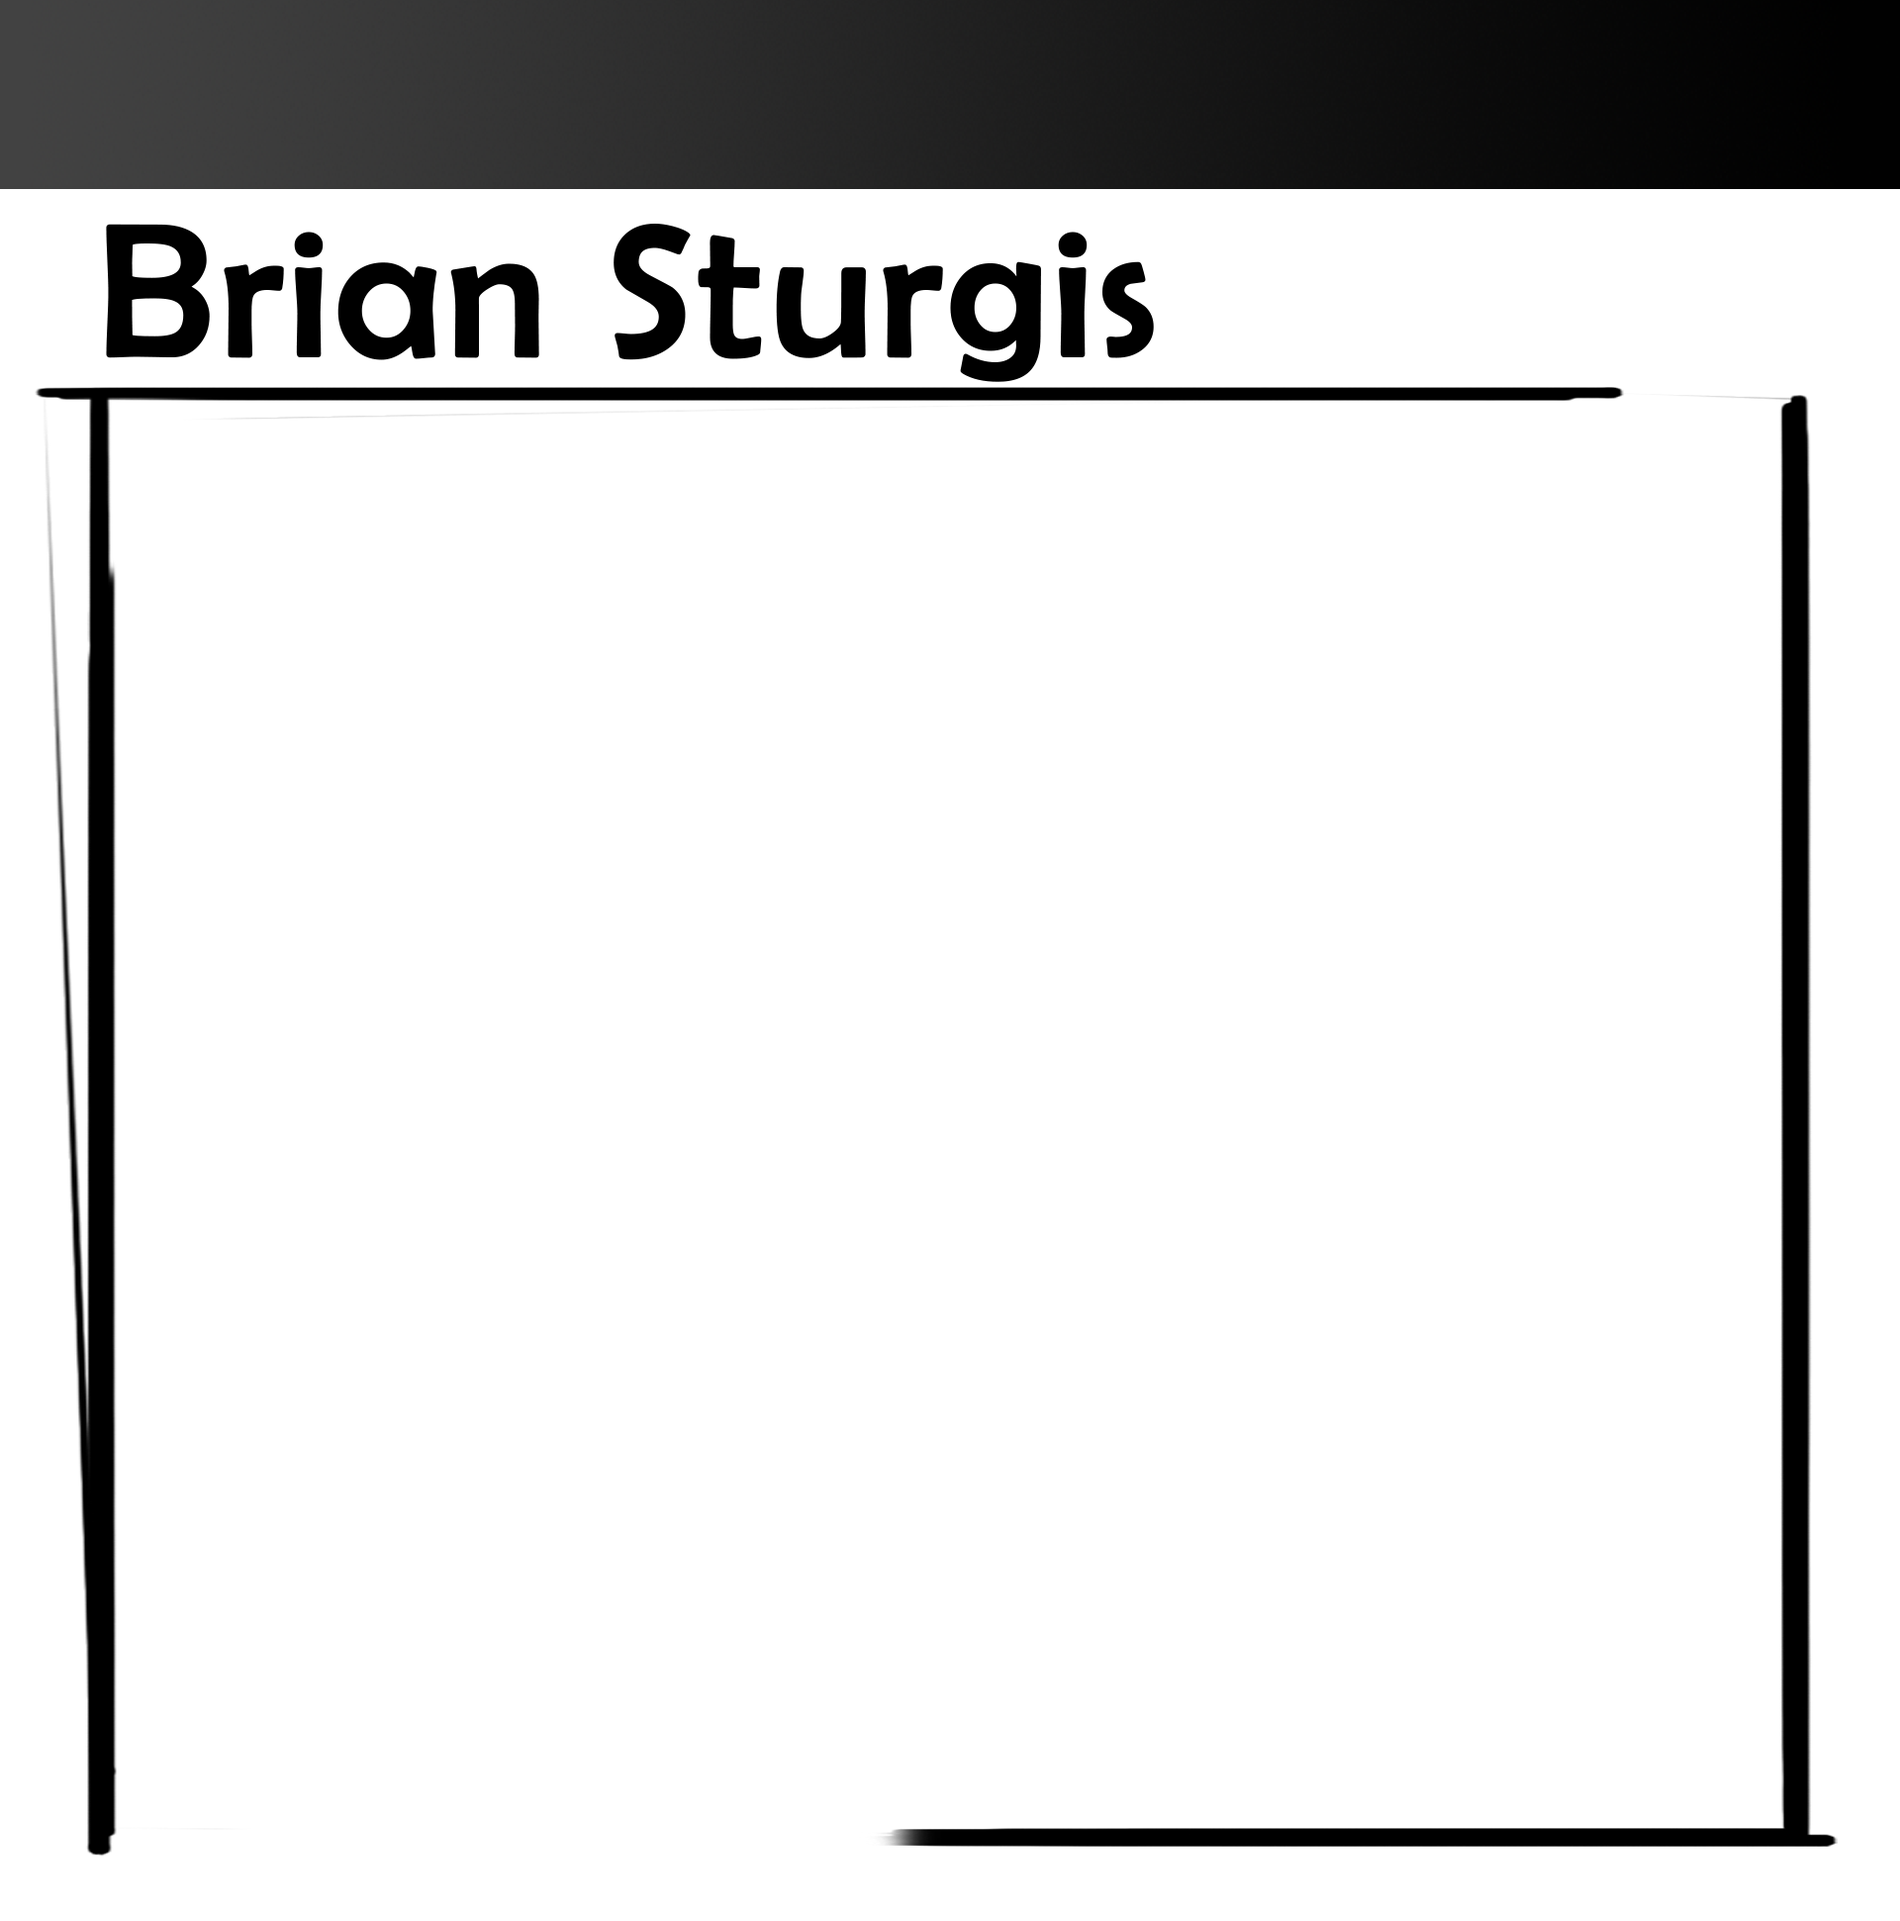
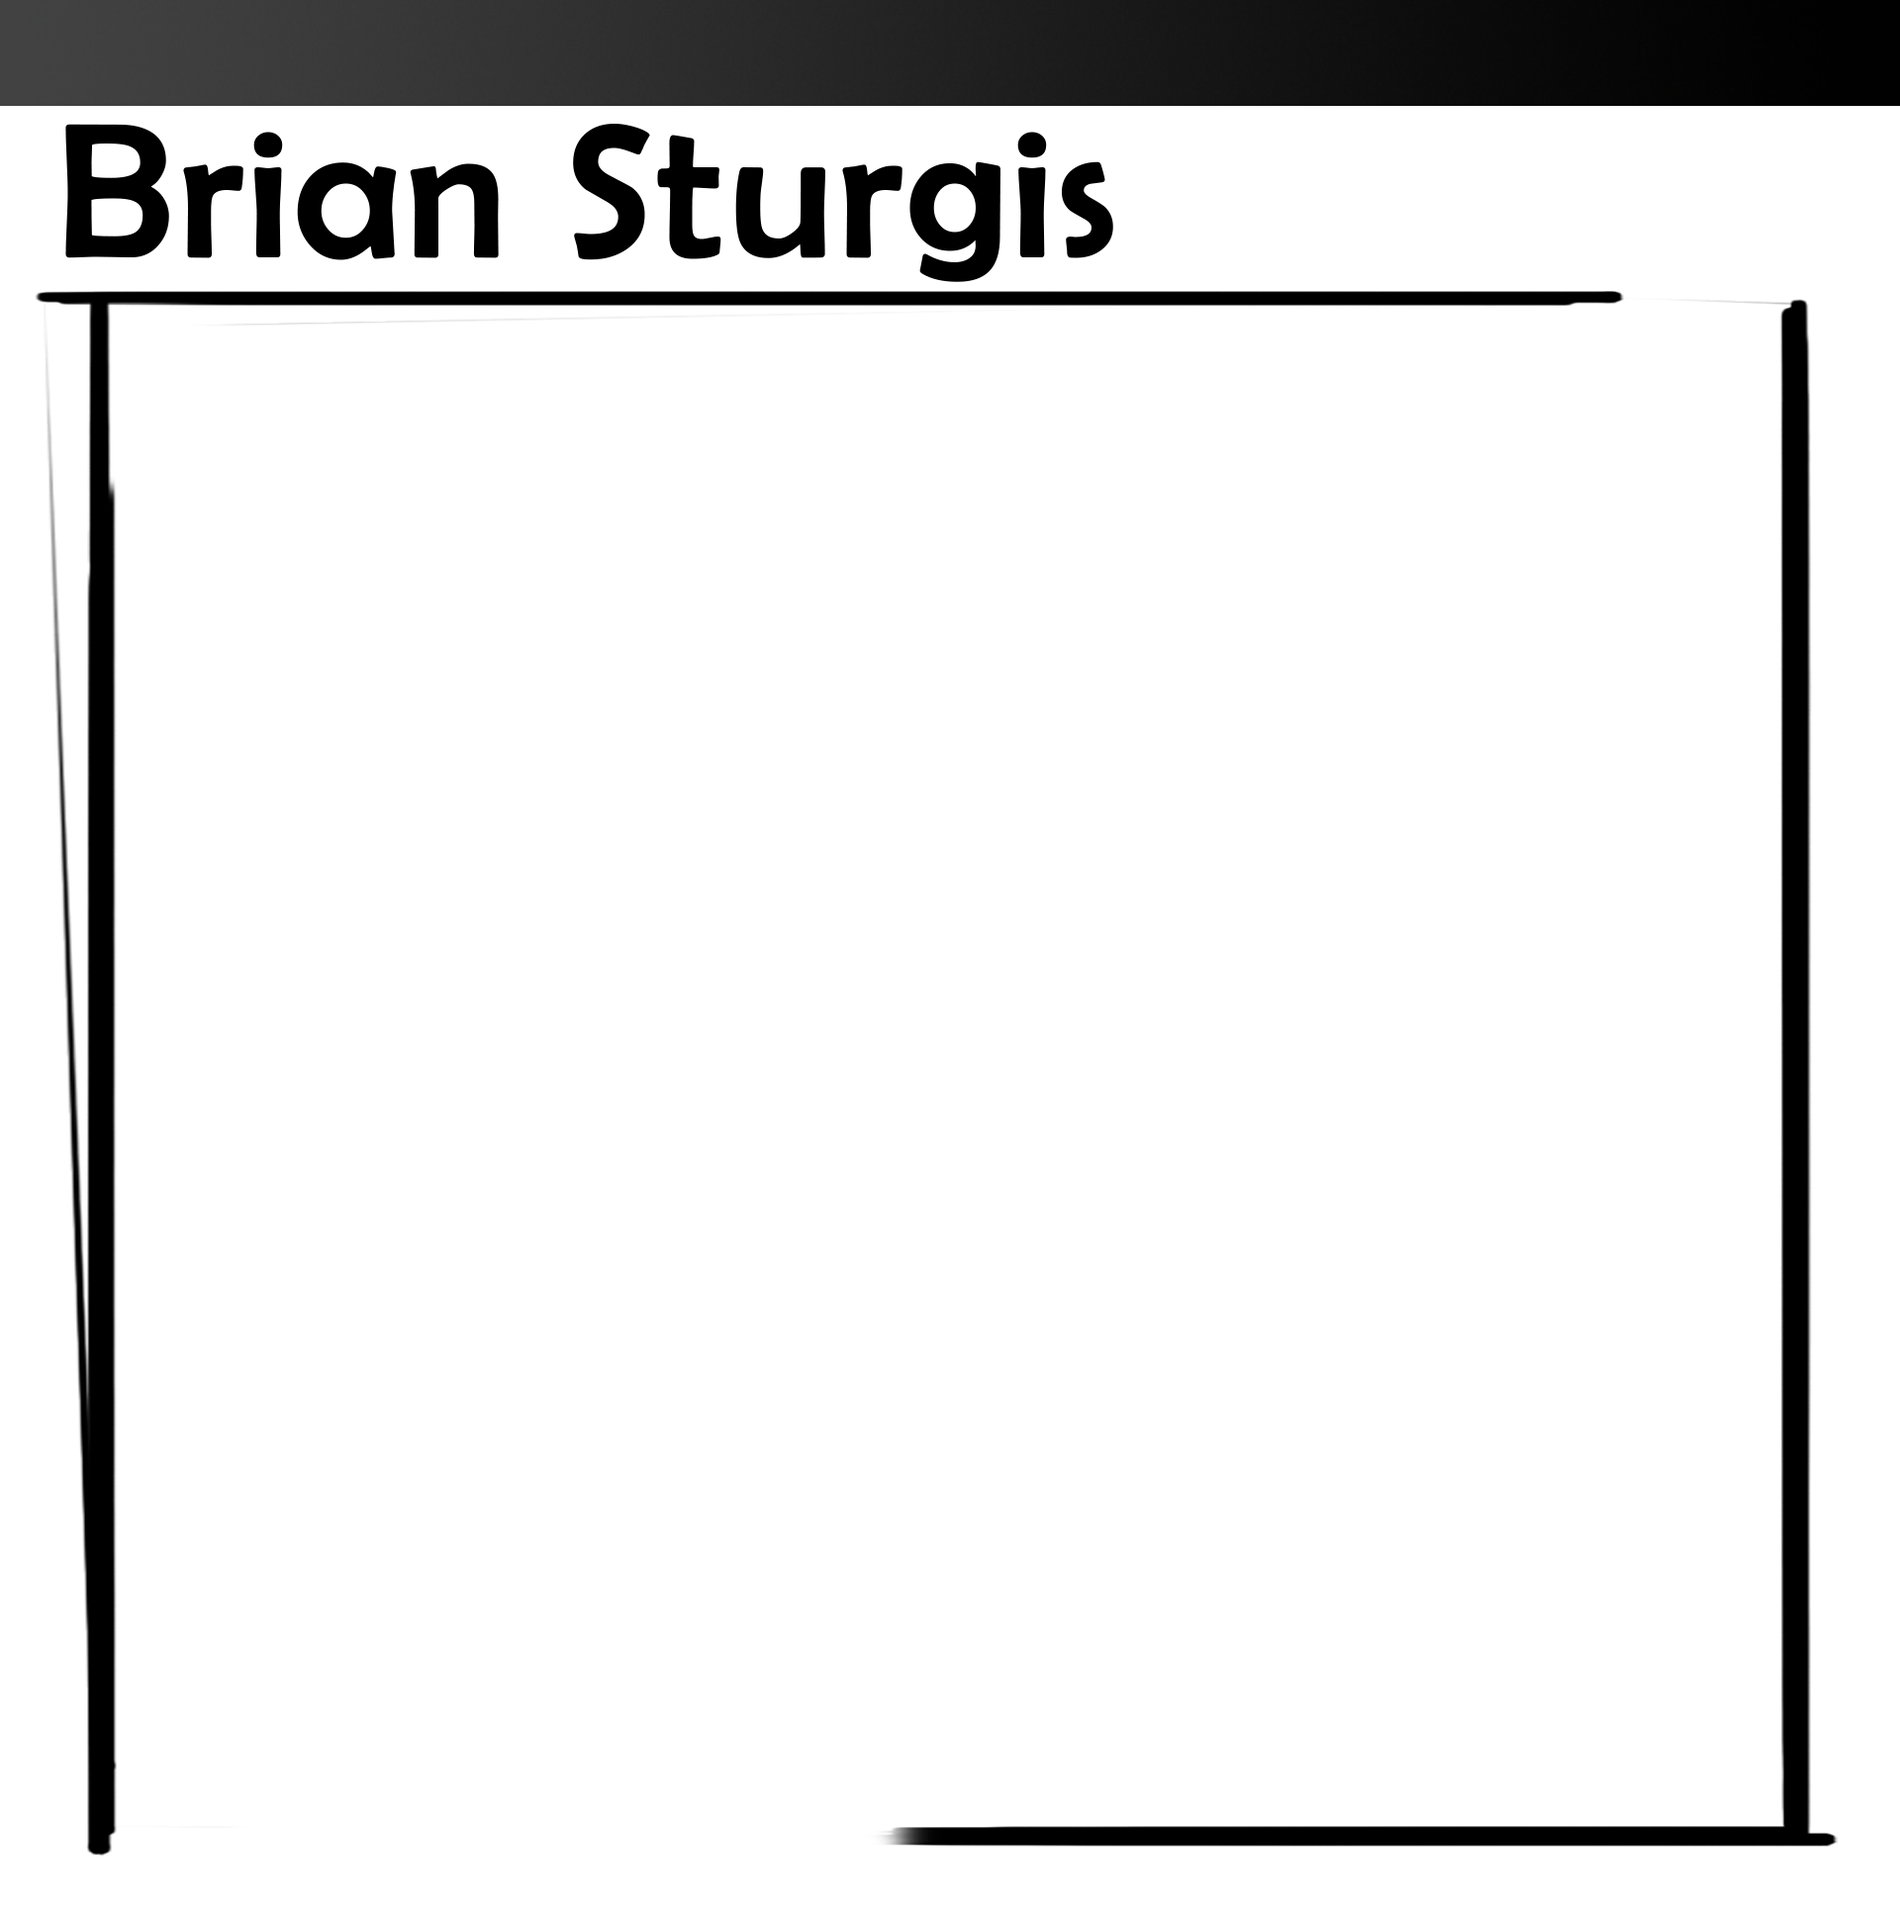
will change wireframe BG for use on all pages

diff --git a/home.html b/home.html
@@ -1,6 +1,7 @@
 <!DOCTYPE html>
 <html lang="en-US">
 <head>
+  <meta name="viewport" content="width=device-width, initial-scale=1.0">
   <link href="css/bootstrap.css" rel="stylesheet" type="text/css">
   <!-- <link href="*" rel="stylesheet">    fonts go here -->
   <link href="css/homeStyles.css" rel="stylesheet" type="text/css">
@@ -10,6 +11,7 @@
   <script src="js/scripts.js"></script>
   <title>HOME</title>
 </head>
+<body>
   <div class="container">
     <div id="background">
       <div class="homeButtons">
@@ -23,4 +25,5 @@
       </div> 
     </div>
   </div>
+</body>
 </html>

diff --git a/css/homeStyles.css b/css/homeStyles.css
@@ -1,11 +1,13 @@
 * {
-  padding: 0;
+ 
   margin: 0;
   box-sizing: border-box;
+
 }
 
 body {
-  background-image: url("./../assets/teplate.png");
+  height: 100vh;
+  background-image: url("./../assets/template.png");
   background-color: aqua;
 }
 
